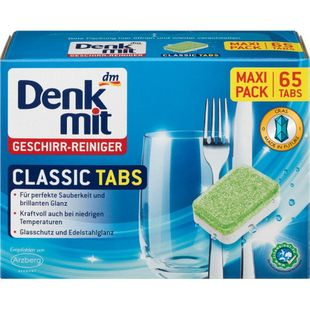
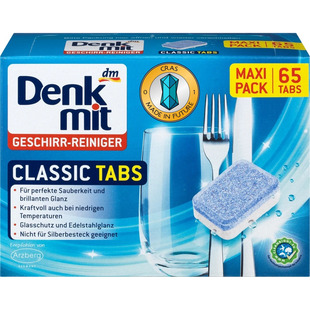
Added denkmit pulver

diff --git a/js/household_chemicals/array-means-mechanical-washing-dishes.js b/js/household_chemicals/array-means-mechanical-washing-dishes.js
@@ -1,22 +1,53 @@
 export const shopLotsMeansMechanicalWashingDishes = [
     {
+        type: "wholesale",
+        url: "./images/shop/household_chemicals/means_for_washing_dishes/mechanical/denkmit_classic_pulver_1.5.jpg",
+        alt: "denkmit_classic_pulver_1.5",
+        url1: "./images/shop/household_chemicals/means_for_washing_dishes/mechanical/denkmit_classic_pulver_1.5-01.jpg",
+        alt1: "denkmit_classic_pulver_1.5-01",
+        url2: "./images/shop/household_chemicals/means_for_washing_dishes/mechanical/denkmit_classic_pulver_1.5-02.jpg",
+        alt2: "denkmit_classic_pulver_1.5-02",
+        url3: "./images/shop/household_chemicals/means_for_washing_dishes/mechanical/denkmit_classic_pulver_1.5-03.jpg",
+        alt3: "denkmit_classic_pulver_1.5-03",
+        url4: "./images/shop/household_chemicals/means_for_washing_dishes/mechanical/denkmit_classic_pulver_1.5-04.jpg",
+        alt4: "denkmit_classic_pulver_1.5-04",
+        marker: "MMWD140",
+        brand: "Denkmit",
+        search: "денкмит денктміт мытья посуды машина машину машини машины посудомийка посудомойка посудомоечная посудомийочна посудомийна порошок для посудомоечной посудомийної",
+        nameUKR: "Порошок миття посуду, для посудомийних машин",
+        nameEN: "Geschirr-Reiniger Classic Pulver",
+        companyName: "dm-drogerie markt GmbH + Co.",
+        countryName: "Німеччина",
+        weightName: "Вага",
+        weight: "1.5 кг.",
+        priceGRN: 209,
+        priceGRNOpt: 190,
+        description01: "&#171Denkmit - Geschirr-Reiniger Classic Pulver&#187 - порошок для посуду розроблений для бездоганного видалення бруду, жиру та плям, залишаючи Ваш посуд блискучим.",
+        description02: "Порошок містить потужні активні компоненти, які швидко розчиняються та легко справляються з навіть найскладнішими забрудненнями. Він підходять для різних видів посуду, від столової тарілки до скляних виробів.",
+        description03: "Просто додайте одну порцію &#171Denkmit - Geschirr-Reiniger Classic Pulver&#187 у вміст посудомийної машини та запустіть програму. Ваш посуд стане ідеально чистим та без слідів жиру або залишків їжі.",
+        description04: "<strong>Для механічного миття посуду. Не підходить для срібла. Розрахований на 100 порцій.</strong>",
+        description05: "Не гайте час на даремні зусилля, а замовляйте &#171Denkmit - Geschirr-Reiniger Classic Pulver&#187 вже сьогодні та насолоджуйтеся чистотою та блиском вашого посуду!"
+    },
+    {
         type: "retail",
         url: "./images/shop/household_chemicals/means_for_washing_dishes/mechanical/denkmit_classic_tabs_65.jpg",
         alt: "denkmit_classic_tabs_65",
-        url1: "./images/shop/household_chemicals/means_for_washing_dishes/mechanical/denkmit_classic_tabs_65.jpg",
-        alt1: "denkmit_classic_tabs_65",
+        url1: "./images/shop/household_chemicals/means_for_washing_dishes/mechanical/denkmit_classic_tabs_65-01.jpg",
+        alt1: "denkmit_classic_tabs_65-01",
+        url2: "./images/shop/household_chemicals/means_for_washing_dishes/mechanical/denkmit_classic_tabs_65-02.jpg",
+        alt2: "denkmit_classic_tabs_65-02",
         marker: "MMWD150",
         brand: "Denkmit",
         search: "денкмит денктміт мытья посуды машина машину машини машины посудомийка посудомойка посудомоечная посудомийочна посудомийна таблетка таблетки таблеткі посудомоечной посудомийної",
-        nameUKR: "Засіб для миття посуду, для посудомийних машин",
+        nameUKR: "Таблетки для миття посуду, для посудомийних машин",
         nameEN: "Geschirr-Reiniger Classic Tabs",
         companyName: "dm-drogerie markt GmbH + Co.",
         countryName: "Німеччина",
         quantityName: "Кількість",
         quantity: "65 шт.",
         priceGRN: 229,
-        quantityOnStorage: 1,
-        description01: "&#171;Denkmit - Geschirr-Reiniger Classic Tabs&#187; - таблетки для посуду розроблені для бездоганного видалення бруду, жиру та плям, залишаючи ваш посуд блискучим.",
+        quantityOnStorage: 11,
+        description01: "&#171;Denkmit - Geschirr-Reiniger Classic Tabs&#187; - таблетки для посуду розроблені для бездоганного видалення бруду, жиру та плям, залишаючи Ваш посуд блискучим.",
         description02: "Кожна таблетка містить потужні активні компоненти, які швидко розчиняються та легко справляються з навіть найскладнішими забрудненнями. Вони підходять для різних видів посуду, від столової тарілки до скляних виробів.",
         description03: "Просто додайте одну таблетку &#171;Denkmit - Geschirr-Reiniger Classic Tabs&#187; у вміст посудомийної машини та запустіть програму. Ваш посуд стане ідеально чистим та без слідів жиру або залишків їжі.",
         description04: "<strong>Для механічного миття посуду. Не підходить для срібла та алюмінія.</strong>",
